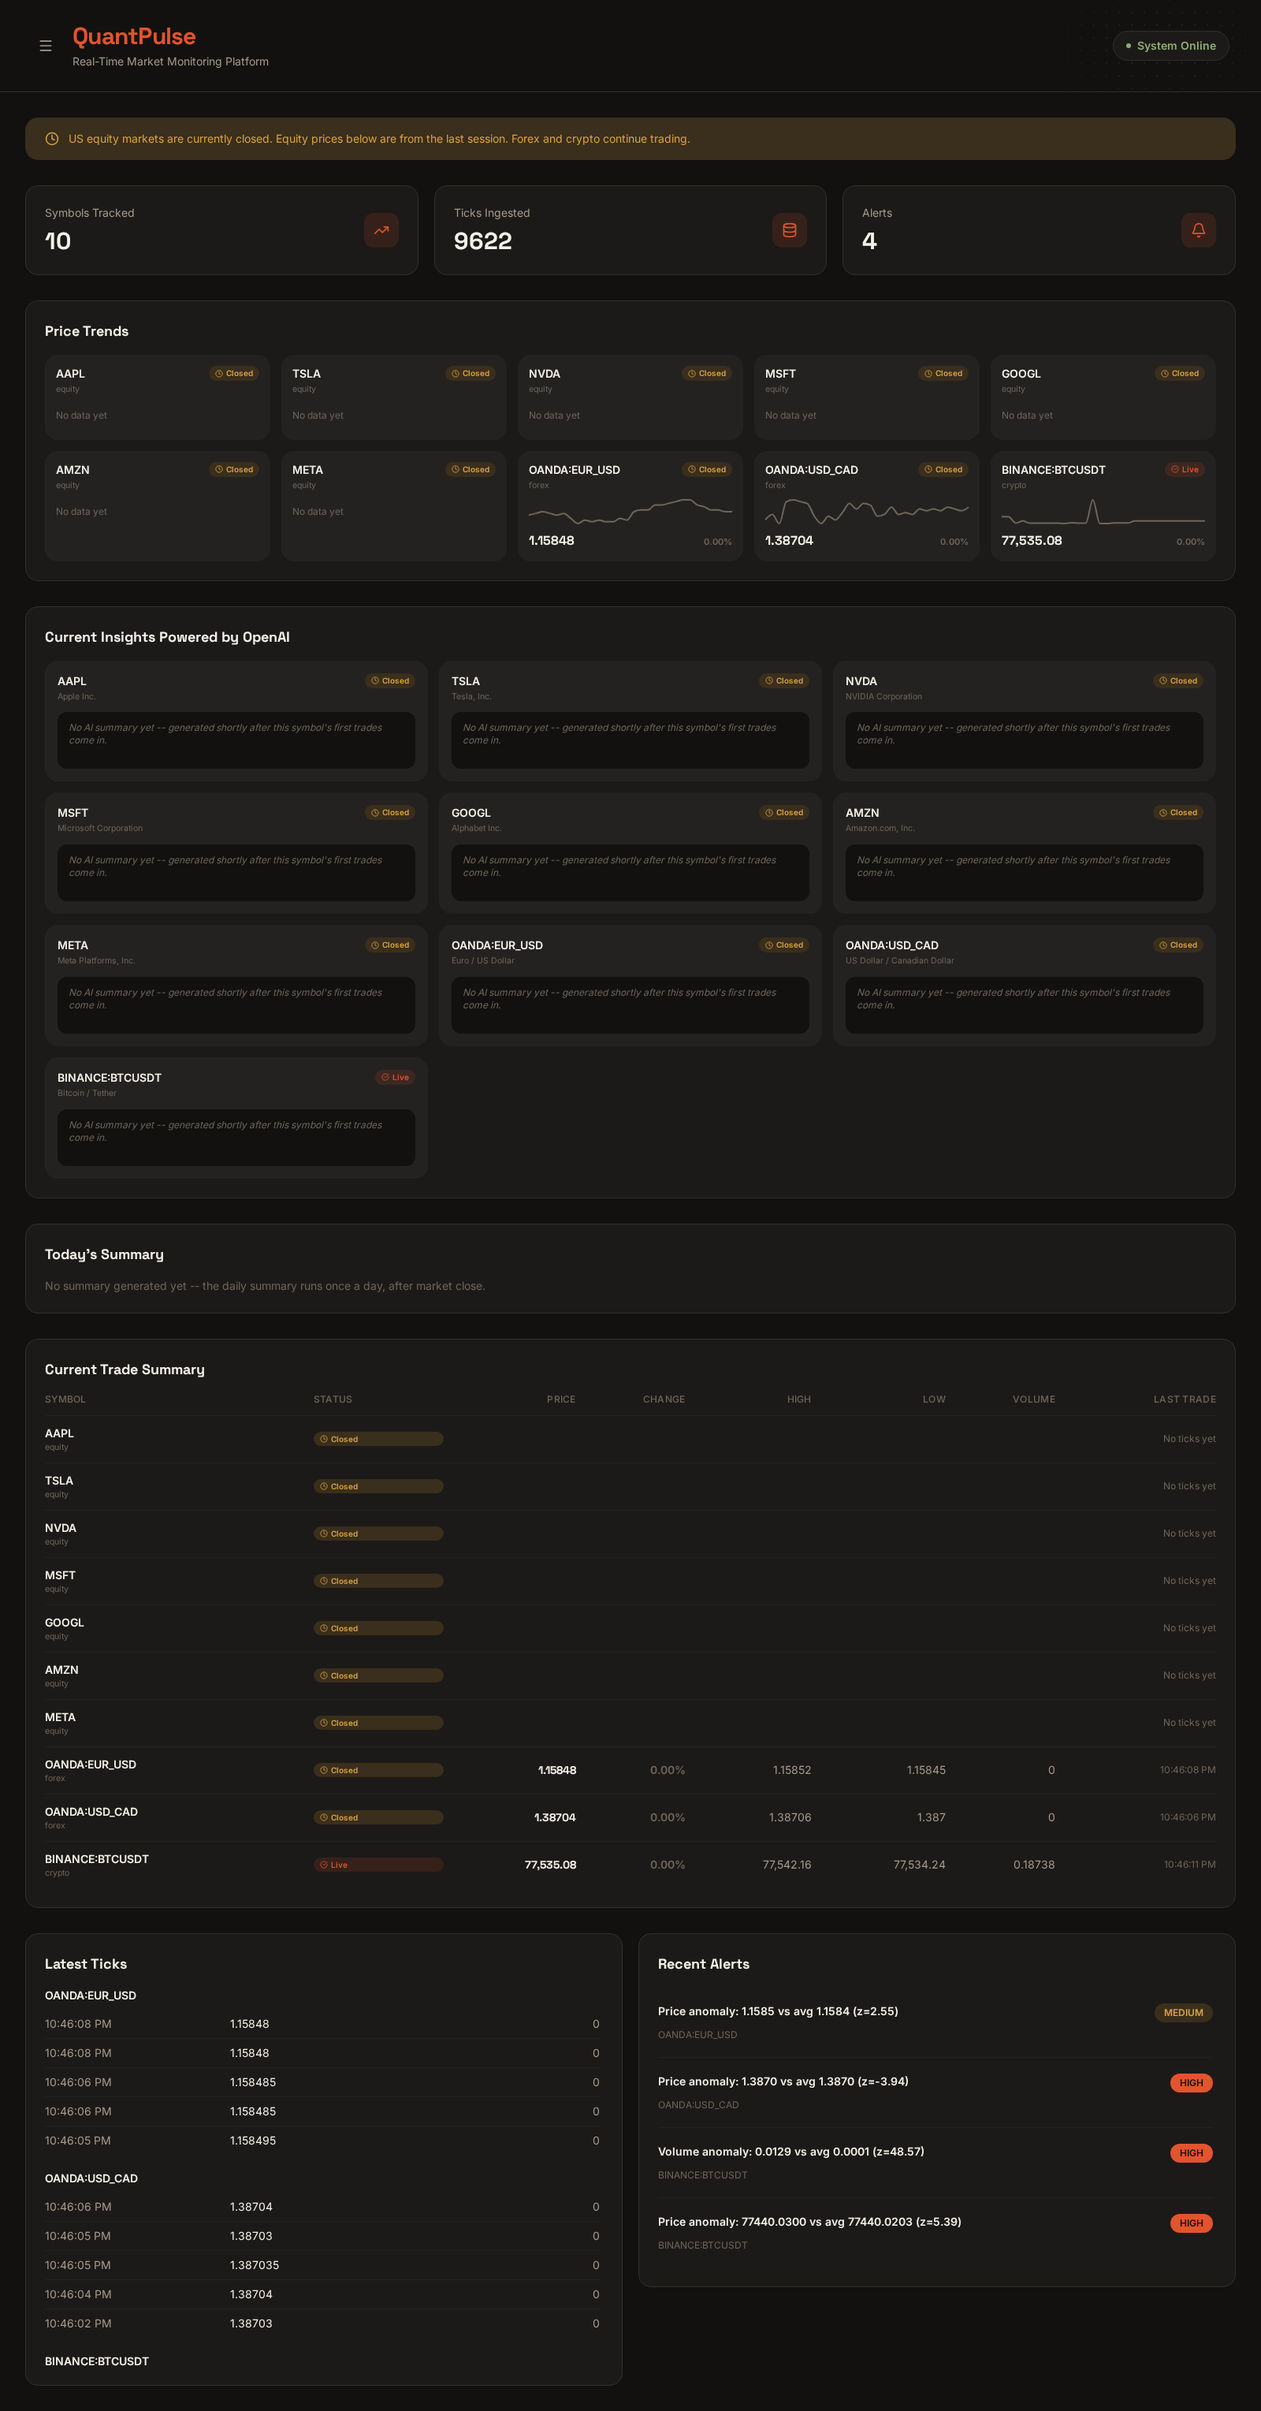
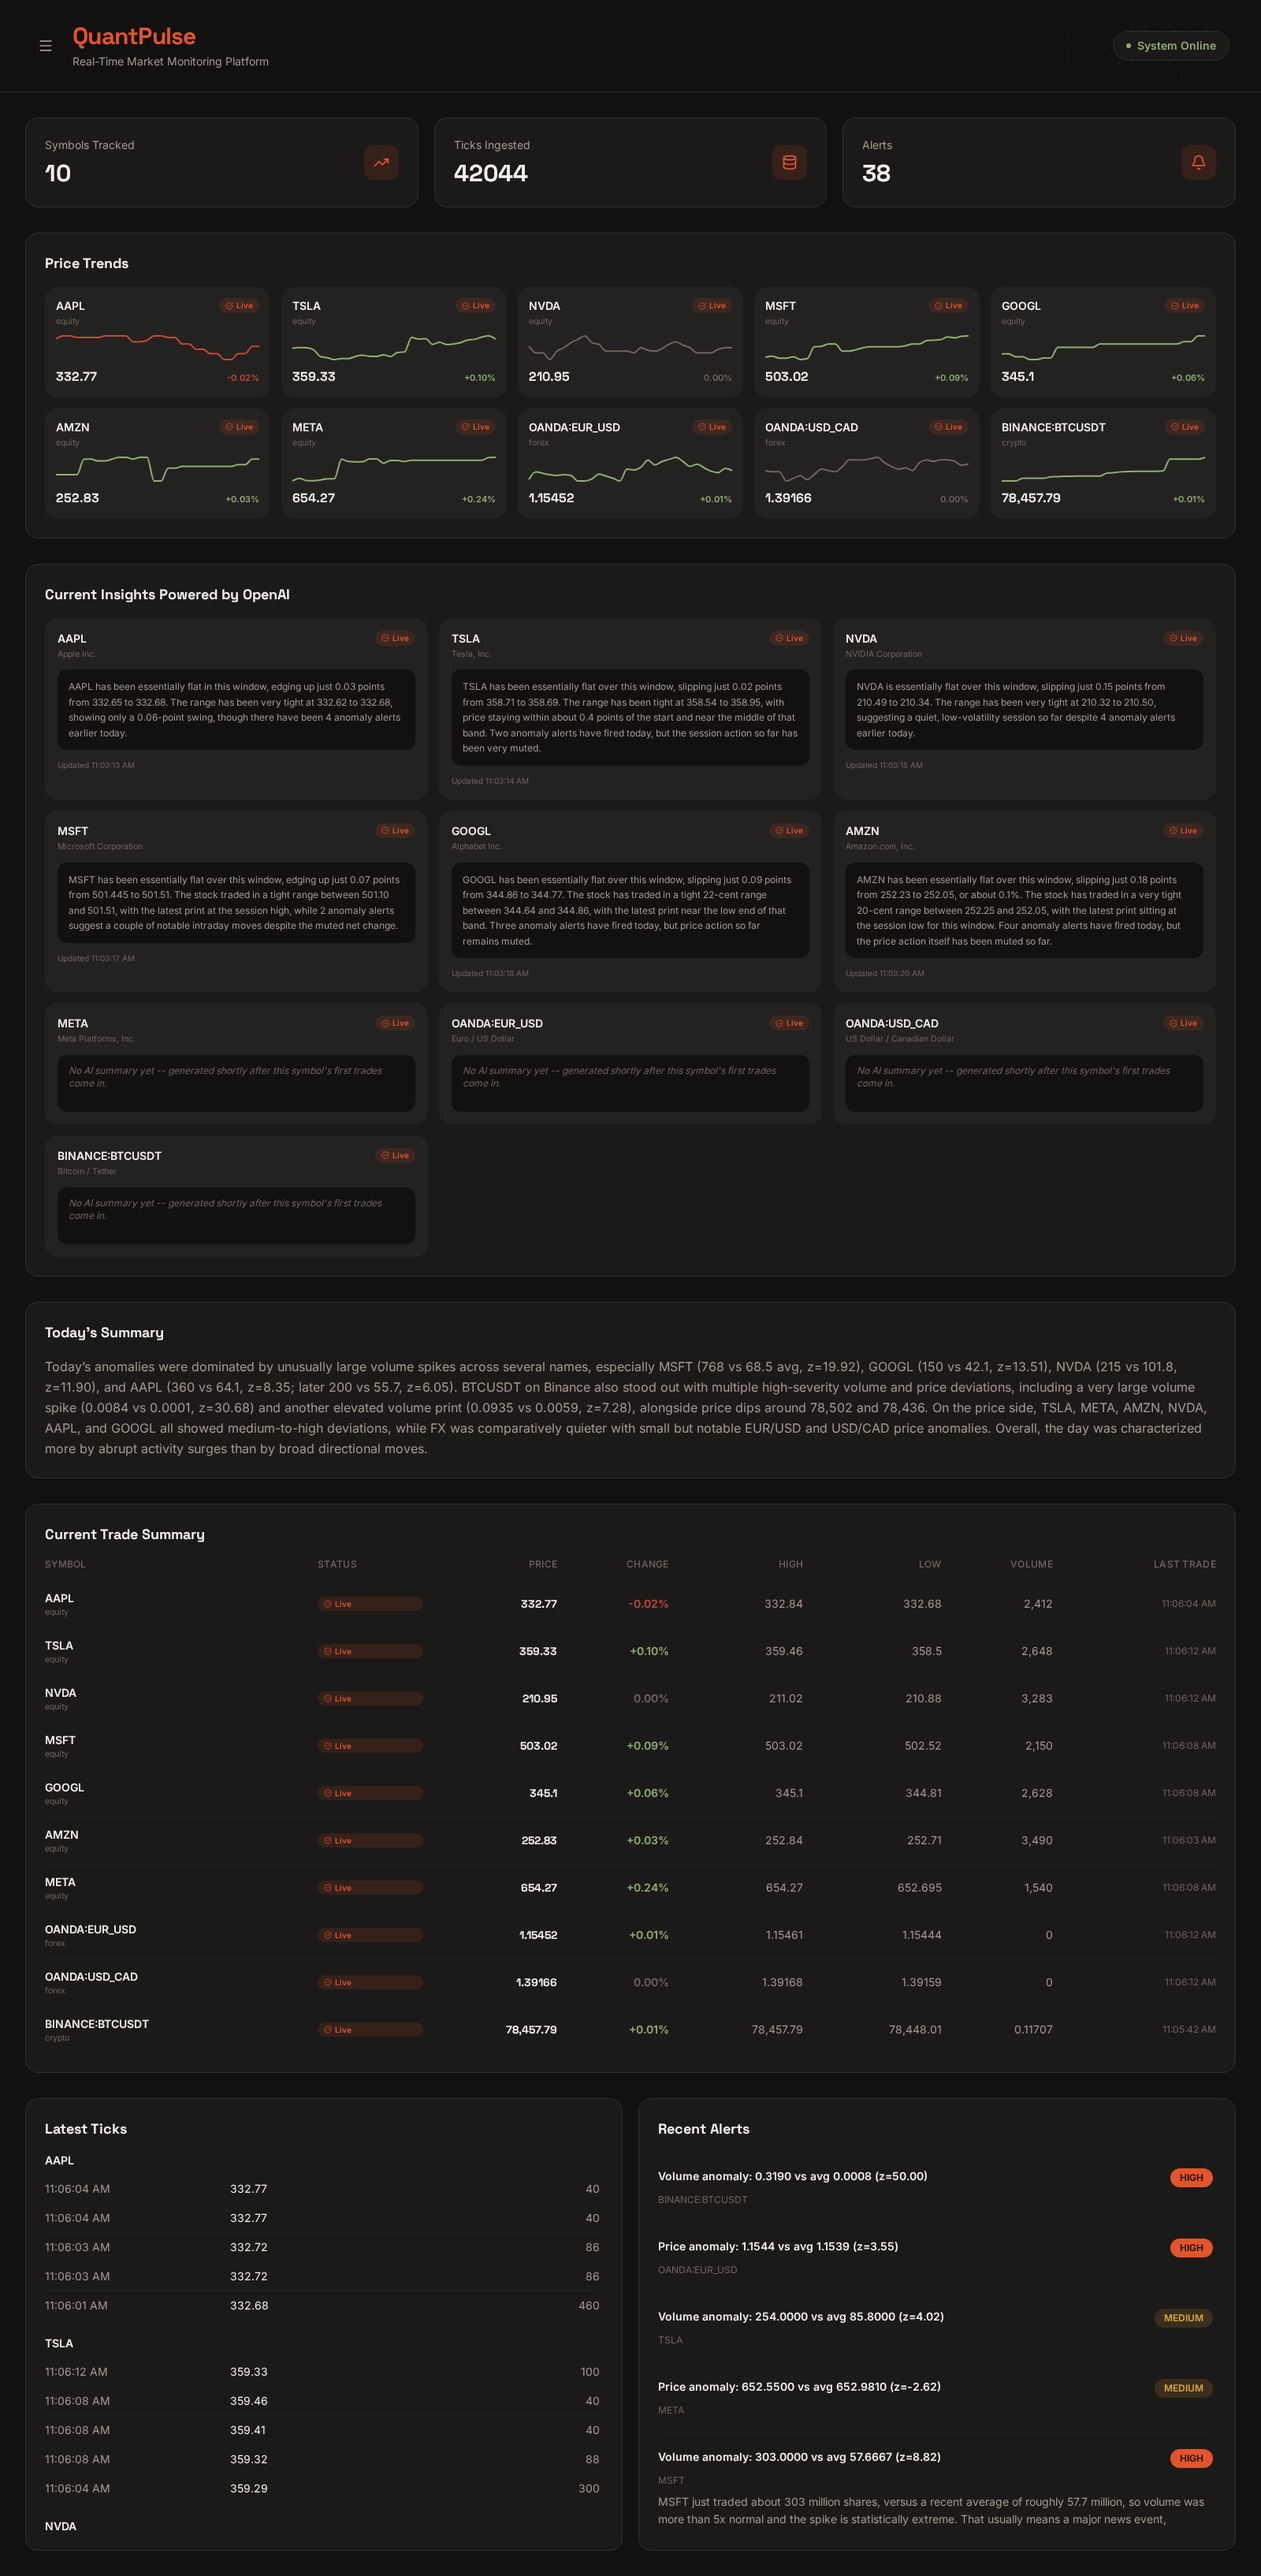
Fix max_tokens -> max_completion_tokens for current-gen models; refresh dashboard screenshot with real AI data
ai/llm_client.py: the chat-completions call used the legacy `max_tokens`
parameter, which current-generation Azure OpenAI deployments reject
outright with a 400 (`Unsupported parameter: 'max_tokens' ... Use
'max_completion_tokens' instead`). All three AI jobs (explainer,
symbol-summary, daily-summary) were silently failing on every single
call because of this -- caught live while deploying a model to the
project's Azure OpenAI resource for the first time and actually running
the jobs, not from a code read. Fixed the one call site; verified live
by re-running all three CronJobs against the same deployment afterward
-- alert explanations, symbol summaries, and the daily digest all
generated real text on the second attempt.

docs/screenshots/dashboard.png: replaced with a screenshot captured
during real NYSE market hours (previous one was captured on a Sunday,
so equities legitimately showed "closed" -- not a bug, just bad timing)
with the AI insight cards and Today's Summary actually populated with
real generated content instead of "No summary yet" placeholders.

.gitignore: added STUFF.txt (a local, gitignored personal secrets
reference file, never intended to be committed).

Claude-Session: https://claude.ai/code/session_01E2wK5tZYftjnB4FCCEM3ir

diff --git a/ai/llm_client.py b/ai/llm_client.py
@@ -38,7 +38,11 @@ def _complete(client, system_prompt, user_prompt, max_tokens):
             {"role": "system", "content": system_prompt},
             {"role": "user", "content": user_prompt},
         ],
-        max_tokens=max_tokens,
+        # `max_tokens` is the older chat-completions field name; current-gen
+        # models (deployed via Azure AI Foundry, not the legacy Azure OpenAI
+        # resource type) reject it outright with a 400 and require
+        # `max_completion_tokens` instead. Same value, new name.
+        max_completion_tokens=max_tokens,
         temperature=0.3,
     )
     return response.choices[0].message.content.strip()
